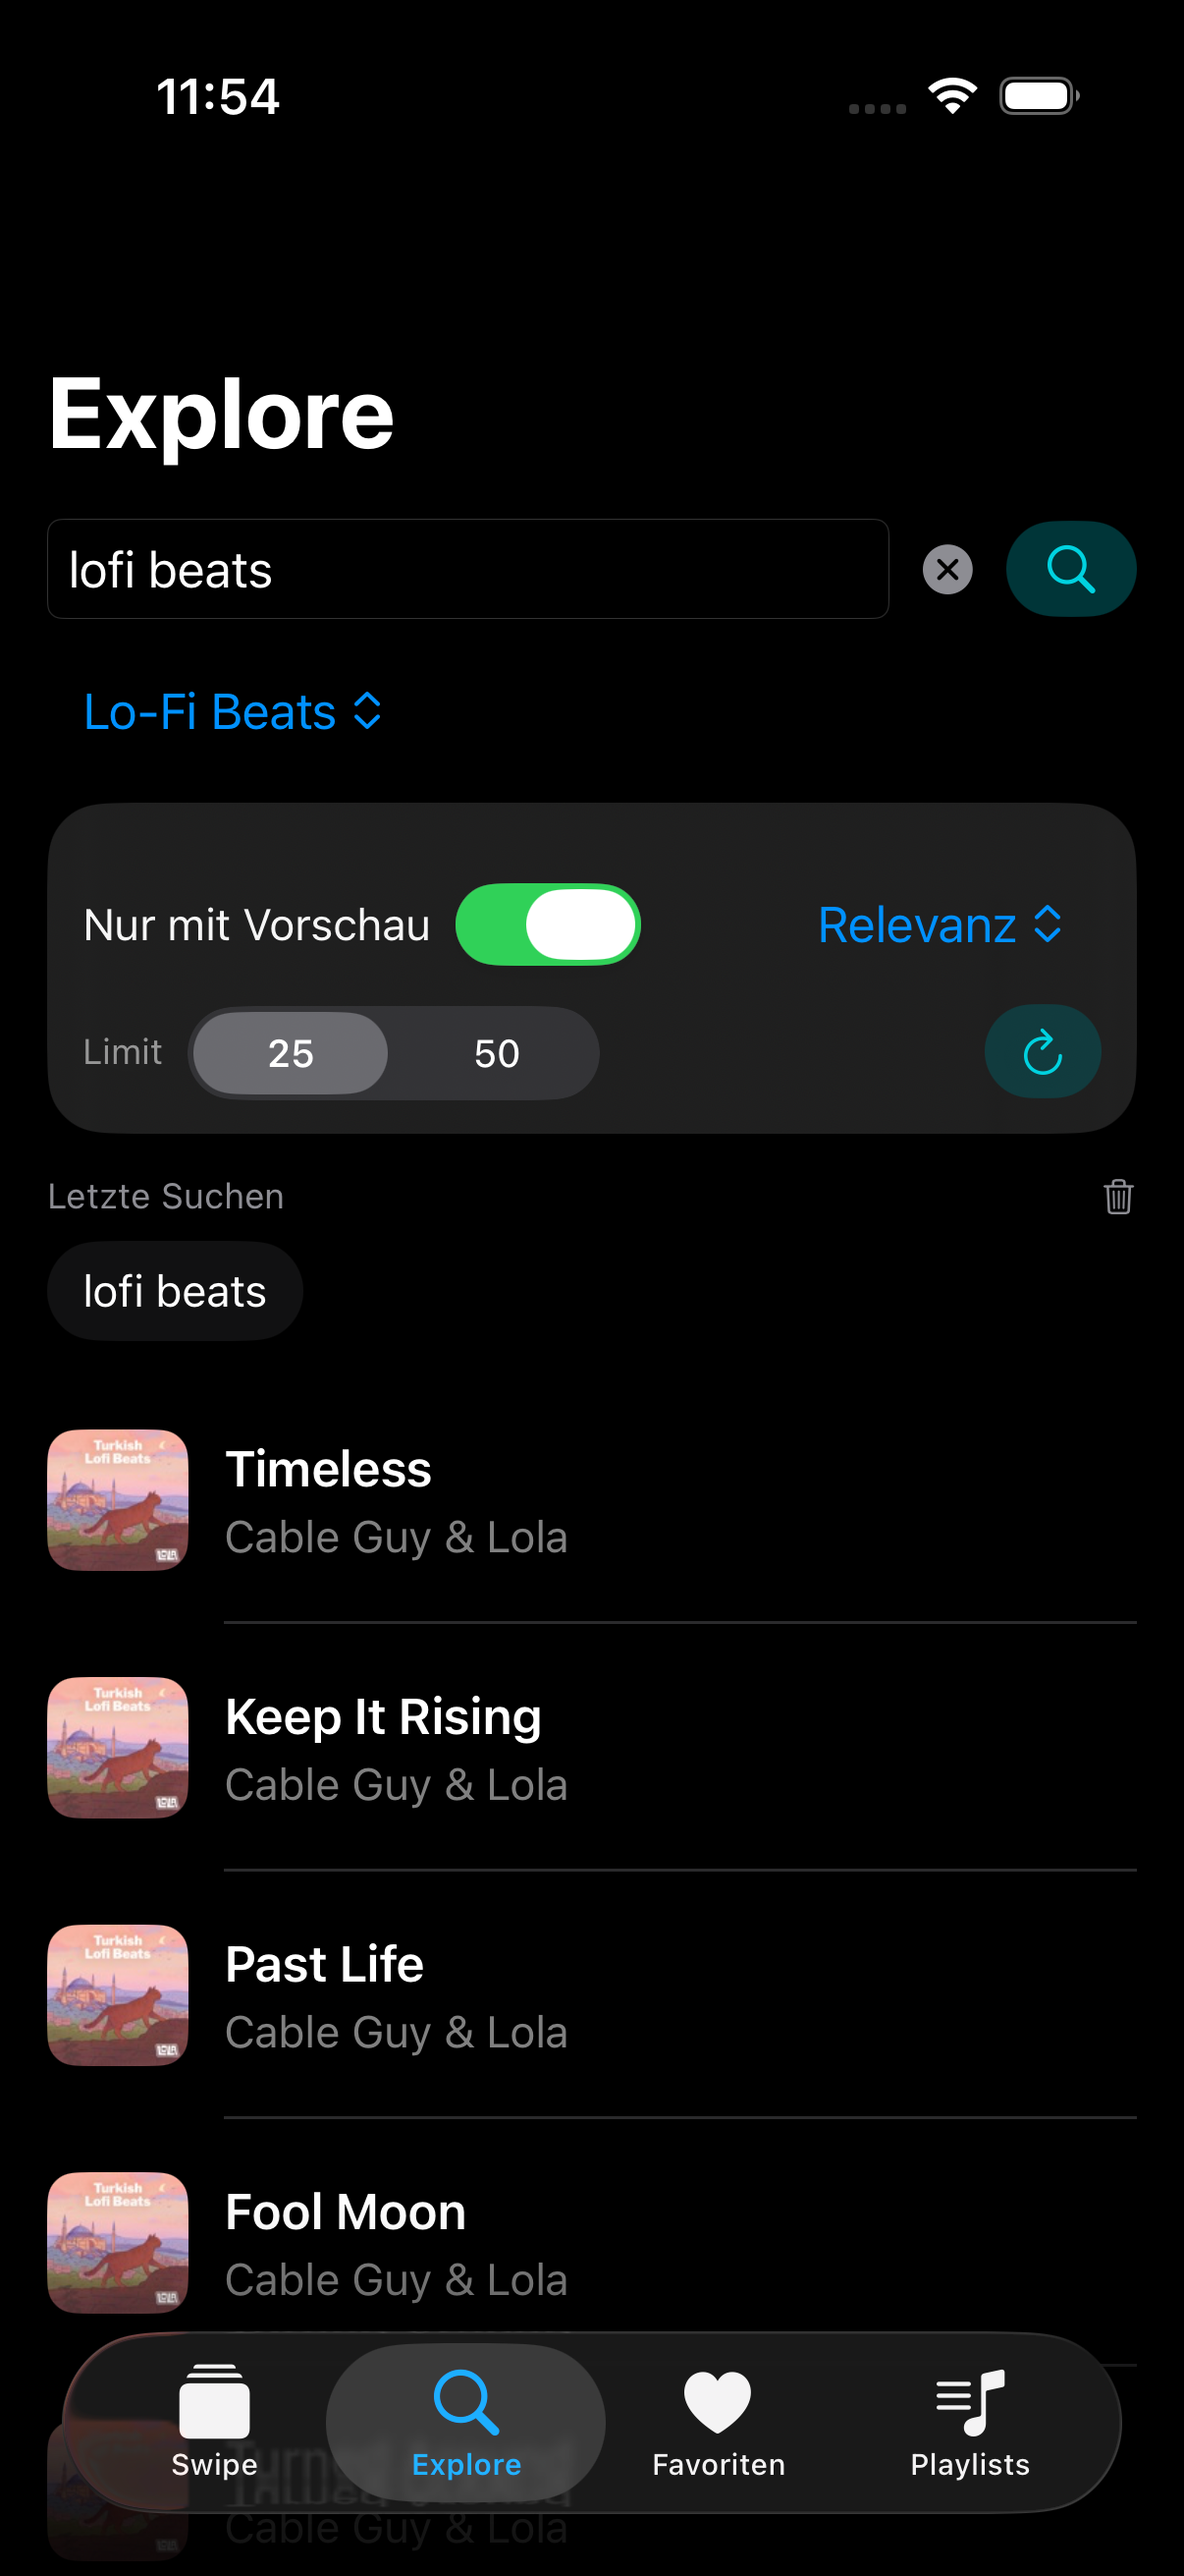
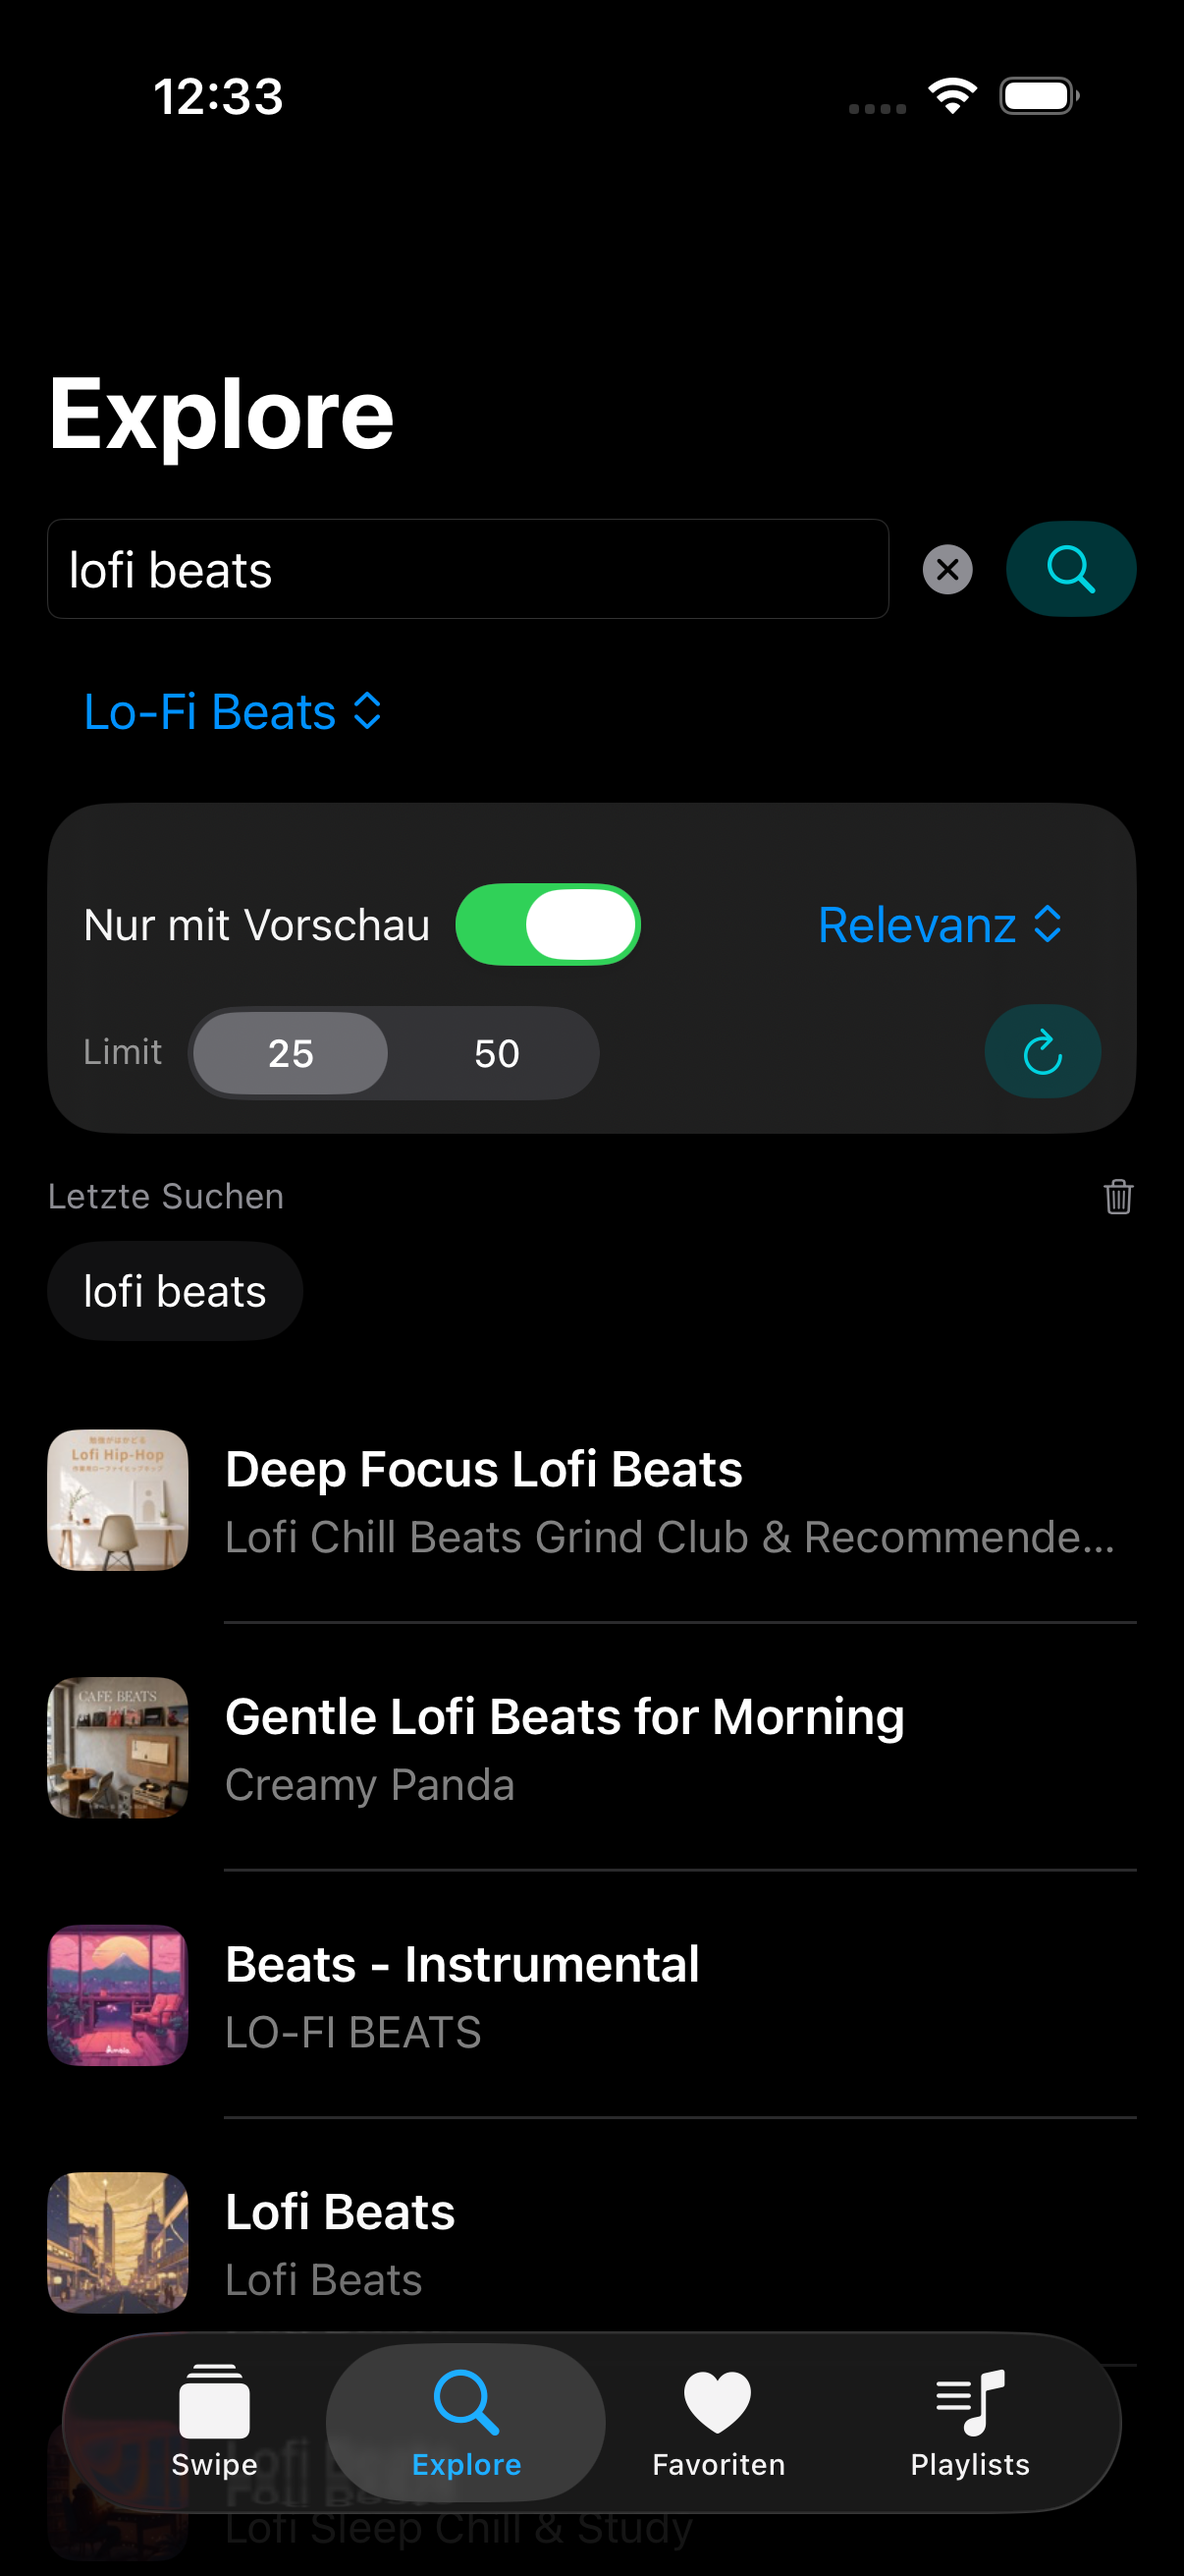
🖼 README-Screenshots aktualisieren
Warum:
Die aktuellen Simulator-Screens zeigen echte Inhalte und den Detail-Screen stärker als die alte Playlist-Leeransicht. Die README nutzt damit die vier überzeugendsten Portfolio-Screens ohne neue App-Logik zu verändern.

diff --git a/README.md b/README.md
@@ -27,7 +27,7 @@ SwipeBeats ist ein kompaktes Portfolio-/UI-UX-Showcase und zeigt einen realistis
   <img src="./screens/swipe.png" width="20%" />
   <img src="./screens/explore.png" width="20%" />
   <img src="./screens/favorites.png" width="20%" />
-  <img src="./screens/playlists.png" width="20%" />
+  <img src="./screens/detail.png" width="20%" />
 </p>
 
 ---
@@ -58,6 +58,11 @@ SwipeBeats ist ein kompaktes Portfolio-/UI-UX-Showcase und zeigt einen realistis
 - Persistente Speicherung über SwiftData  
 - Schneller Zugriff auf gespeicherte Songs
 - Preview direkt aus Favoriten starten
+
+### 🎵 Track Details
+- Große Artwork-Ansicht mit Track- und Artist-Informationen
+- Preview-, Favoriten- und Playlist-Aktionen an einem Ort
+- Direkter Absprung zu Apple Music
 
 ### 📂 Playlists
 - Playlists erstellen, umbenennen und löschen  
@@ -173,7 +178,7 @@ SwipeBeats is a compact portfolio/UI-UX showcase and demonstrates a realistic iO
   <img src="./screens/swipe.png" width="20%" />
   <img src="./screens/explore.png" width="20%" />
   <img src="./screens/favorites.png" width="20%" />
-  <img src="./screens/playlists.png" width="20%" />
+  <img src="./screens/detail.png" width="20%" />
 </p>
 
 ---
@@ -204,6 +209,11 @@ SwipeBeats is a compact portfolio/UI-UX showcase and demonstrates a realistic iO
 - Persistent storage via SwiftData  
 - Quick access to saved songs
 - Start previews directly from favorites
+
+### 🎵 Track Details
+- Large artwork view with track and artist information
+- Preview, favorite, and playlist actions in one place
+- Direct handoff to Apple Music
 
 ### 📂 Playlists
 - Create, rename, and delete playlists  
